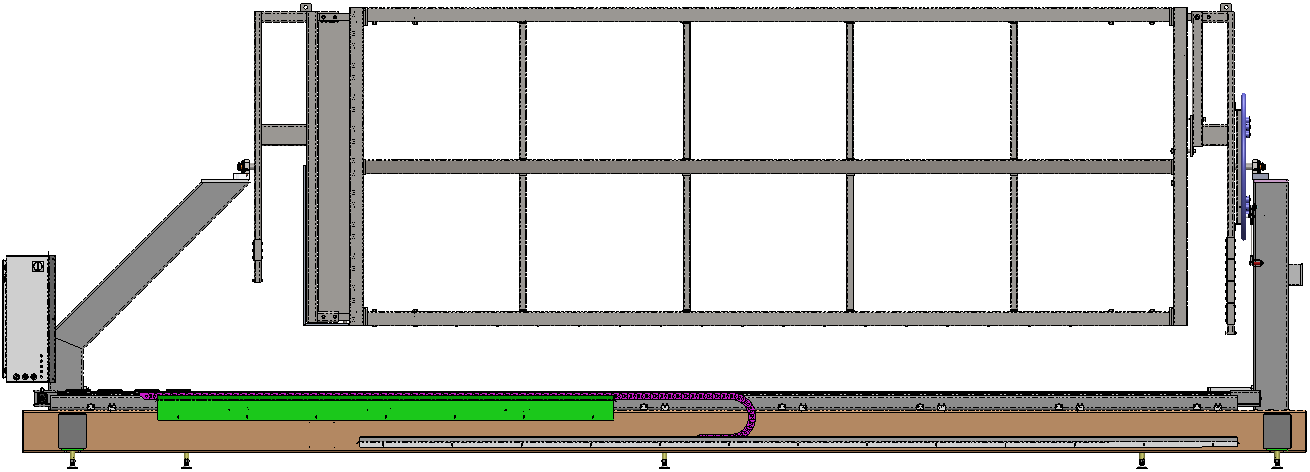
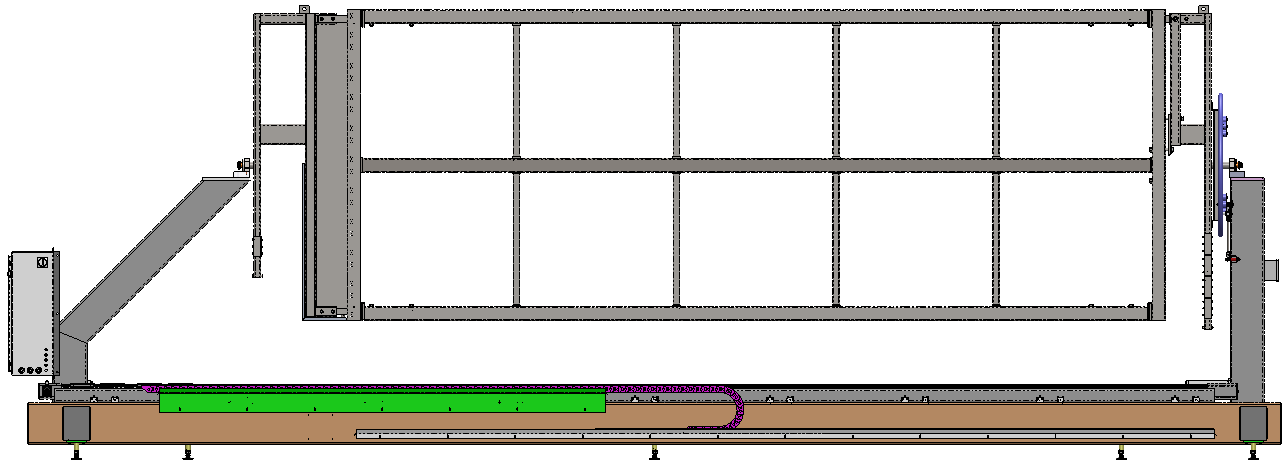
Control software * Changes to machine geometry.  Simulation is now dysfunctional.
User interface
* Animation on jog now page include Y-axis motion.

Changed region(s): [[0.0, 0.0, 1.0, 0.9978]]

diff --git a/src/winder/WebUI/Desktop/Modules/positionGraphic.js b/src/winder/WebUI/Desktop/Modules/positionGraphic.js
@@ -10,24 +10,55 @@ function PositionGraphic()
       function()
       {
         // Limits of image (in pixels)
-        var minX = 52
-        var maxX = 1040
+        var MIN_X = 58    //52
+        var MAX_X = 1110
 
         // Limits of travel (in mm)
         // $$$DEBUG - This should come from machine geometry.
-        var minPosition = -250
-        var maxPosition = 6800
+        var MIN_X_POSITION = -250
+        var MAX_X_POSITION = 6800
 
-        var x = maxX - minX
-        x *= motorStatus.motor[ "xPosition" ] - minPosition
-        x /= ( maxPosition - minPosition )
-        x += minX
+        var x = MAX_X - MIN_X
+        x *= motorStatus.motor[ "xPosition" ] - MIN_X_POSITION
+        x /= ( MAX_X_POSITION - MIN_X_POSITION )
+        x += MIN_X
 
         $( "#loopImage" ).css( "left", x + "px" )
         //$( "#debug" ).text( x )
+
+        var HEAD_X_OFFSET = 100
+
+        // Limits of image (in pixels)
+        var MIN_Y = 387
+        var MAX_Y = 28
+
+        // Limits of travel (in mm)
+        // Limits of travel (in mm)
+        // $$$DEBUG - This should come from machine geometry.
+        var MIN_Y_POSITION = -25
+        var MAX_Y_POSITION = 2800
+
+        x += HEAD_X_OFFSET
+
+        var y = MAX_Y - MIN_Y
+        y *= motorStatus.motor[ "yPosition" ] - MIN_Y_POSITION
+        y /= ( MAX_Y_POSITION - MIN_Y_POSITION )
+        y += MIN_Y
+
+        $( "#headImage" ).css( "left", x + "px" )
+        $( "#headImage" ).css( "top", y + "px" )
+        // var loopPosition = $( "#loopImage" ).position()
+        // var headPosition = $( "#headImage" ).position()
+        // $( "#debug" ).html
+        // (
+        //   loopPosition.left + ", " + loopPosition.top + "<br />" + headPosition.left + ", " + headPosition.top
+        // )
       }
     )
   }
+
+  $( "#headImage" ).draggable()
+
 }
 
 var positionGraphic = new PositionGraphic()

diff --git a/src/winder/WebUI/Desktop/Modules/positionGraphic.html b/src/winder/WebUI/Desktop/Modules/positionGraphic.html
@@ -1,5 +1,6 @@
-      <article style="margin: 10px; position: relative; width: 1200px;">
+      <article id="sideGraphic">
         <img id="baseImage" src="Images/Base.png" alt="Front view" />
         <img id="loopImage" src="Images/Loop.png" alt="Loop view" />
+        <img id="headImage" src="Images/Head.png" alt="Head view" />
         <p id="debug"></p>
       </article>

diff --git a/src/winder/WebUI/Desktop/Modules/positionGraphic.css b/src/winder/WebUI/Desktop/Modules/positionGraphic.css
@@ -1,13 +1,27 @@
+#sideGraphic
+{
+  margin: 10px;
+  position: relative;
+  width: 1300px;
+}
+
 #baseImage
 {
   margin-top: 75px;
-  width: 1200px;
+  /*width: 1200px;*/
 }
 
 #loopImage
 {
-  width: 150px;
+  /*width: 120px;*/
   position: absolute;
-  top: 0px;
+  top: 5px;
   left: 500px;
+}
+
+#headImage
+{
+  position: absolute;
+  top: 0;
+  left: 0;
 }

diff --git a/src/winder/Control/Machine/MachineGeometry.py b/src/winder/Control/Machine/MachineGeometry.py
@@ -23,10 +23,10 @@ class MachineGeometry :
 
     # Location of Z-Transfer areas.
     # Top/bottom for Y, left/right for X.
-    self.top    = 2800  / self.scale
-    self.bottom = -25   / self.scale
-    self.left   = -250  / self.scale
-    self.right  = 6500  / self.scale
+    self.top    = 2800  / self.scale  # 2800
+    self.bottom = 0     / self.scale  # -25
+    self.left   = 400   / self.scale  # -250
+    self.right  = 6500  / self.scale  # 6500
 
     # How big the Z-transfer windows are.
     # The Z-transfer windows start at top/bottom/left/right locations.
